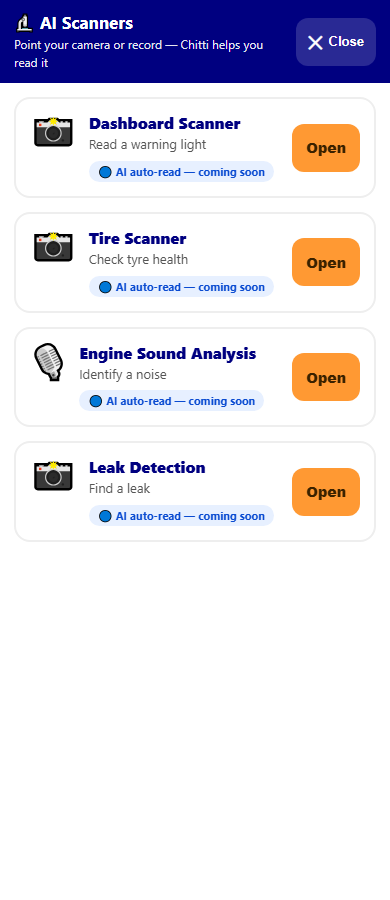
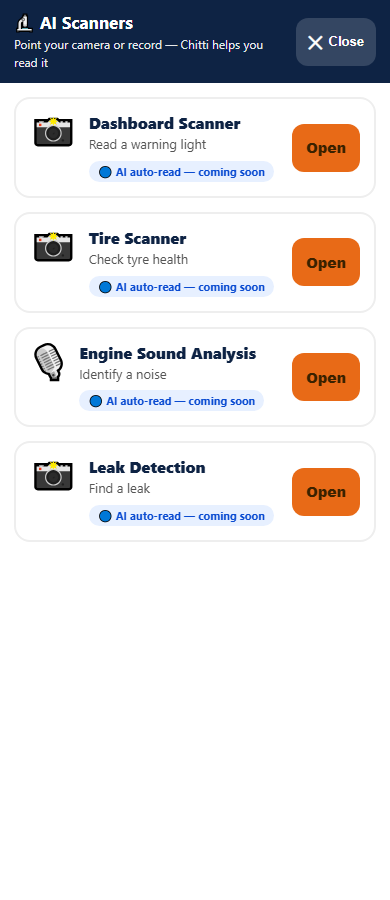
docs(mechanic): handover sign-off v2 — re-run gates incl. RC scan + skin + car-title fix
Re-ran the full QA Engineer + Solution Architect pass against the current build (RC
scan feature + MedUPI skin + mc.form.title i18n fix) and refreshed all 5 deliverables.

Harness: added RC journey J11 to qa_handover.mjs (Scan RC → state/RTO chip + honest
auto-fill, asserts NO fabrication) and new tools/test_rc_langs.mjs (9-language matrix).

Fresh, honest numbers:
- qa_handover.mjs 44/45 (journeys 22/22 incl. J11 on both vehicles, 3 engines:
  Chromium/Firefox/WebKit-Safari; edge 5/6; perf 8/8; a11y 5/5). The 1 fail = the
  documented slow-3G first-load (BUG-1).
- cert 24/24 · §5 scanner stable 8-16 · RC smoke 20/20 · RC 9-lang matrix 54/54.

Found + fixed a TEST-harness bug (J11 read J2's leftover demo make value, not an RC
fabrication) — logged honestly as BUG-4; the product is correct.

Honest scope flagged in the docs:
- RC make/model AI auto-read is a stub (vision-gated; wired to CHITTI_RC_VISION_URL,
  auto-activates when set) — never fabricates.
- Urdu is NOT shipped — the 9th language is Malayalam; checklist mismatch documented.
- RC photo is device-local only (no server backup, by design).
- Still NOT done (recommended before MASS launch): physical-device pass, human-AT
  sessions; Sire-blocked: live-LLM/CQOS numbers, Turso DATABASE_URL.

Verdict unchanged: ready for PILOT/BETA handover; mass-launch waits on the above.

diff --git a/CHITTI_MECHANIC_QA_TEST_REPORT.md b/CHITTI_MECHANIC_QA_TEST_REPORT.md
@@ -1,36 +1,46 @@
 🎖 World Class Chitti Mechanic (Chitti Auto OS) — Commando Discipline. Zero Excuses.
 
 # QA TEST REPORT — Chitti Mechanic (Bike + Car Doctor)
-**Deliverable 1 of 5 · Pre-handover sign-off (Part A)**
+**Deliverable 1 of 5 · Pre-handover sign-off (Part A) · v2 (2026-06-05, re-run)**
 
 **Date:** 2026-06-05 · **QA Engineer:** Chitti CTO (Claude Opus 4.8, automated + headless testing) ·
 **Harness:** [tools/qa_handover.mjs](tools/qa_handover.mjs) (real Playwright across **Chromium + Firefox +
 WebKit/Safari**) + standing suites ([cert_mechanic](tools/cert_mechanic.mjs), [test_mechanic](tools/test_mechanic.mjs),
-[scan_hinglish](tools/scan_hinglish.mjs), `backend/test_routes.py`).
+[scan_hinglish](tools/scan_hinglish.mjs), [test_rc_scan](tools/test_rc_scan.mjs), [test_rc_langs](tools/test_rc_langs.mjs), `backend/test_routes.py`).
+
+> **What changed in v2 (this session):** (a) new **"Scan your RC → auto-fill"** feature on both pages
+> ([chitti_rc_scan.js](chitti_rc_scan.js)); (b) **UI re-skinned to Chitti MedUPI** ([chitti_mechanic_medupi_skin.css](chitti_mechanic_medupi_skin.css));
+> (c) **i18n fix** — Car Doctor form title was showing "My Bike" (`mb.form.title`), now `mc.form.title` in all 9
+> languages. All three are re-tested below + folded into the standing harness (new journey **J11**).
 
 > **Honesty preface.** Tested by an AI with headless browsers across the three real engines (Chrome=Chromium,
 > Firefox=Gecko, Safari/iOS=WebKit). **NOT** done / **not** claimed: physical iOS/Android handsets, real human
 > blind/deaf/illiterate AT sessions, automated a11y scanner (WAVE/Lighthouse not installed → manual attribute
 > audit instead). See [Known Issues](CHITTI_MECHANIC_KNOWN_ISSUES.md) §9.
 
-## Headline: **41 / 43 PASS.** 2 findings (neither Critical): 1 fixed (img-alt), 1 documented (slow-3G).
-Standing gates green: cert **24/24**, frontend tests **18/18**, backend **7/7 + 7/7**, §5 scanner **stable 8–16**.
+## Headline: **44 / 45 PASS.** 1 finding (not Critical): documented (slow-3G first load, BUG-1).
+Standing gates green: cert **24/24**, frontend tests **18/18**, backend **7/7 + 7/7**, §5 scanner **stable 8–16**,
+RC smoke **20/20**, RC 9-language matrix **54/54**.
 
-## A1 — 20 user journeys (10 bike + 10 car) — **20/20 PASS**
+## A1 — 22 user journeys (11 bike + 11 car) — **22/22 PASS**
 | # | Journey | Bike | Car |
 |---|---|---|---|
-| J1 | Page loads + brand renders, 0 page errors | ✅ 2987ms | ✅ 2445ms |
+| J1 | Page loads + brand renders, 0 page errors | ✅ | ✅ |
 | J2 | Add vehicle → save → persists to localStorage | ✅ | ✅ |
-| J3 | Swarm Diagnosis: symptom → 8-agent confidence verdict | ✅ 640ms | ✅ 554ms |
-| J4 | Scam Shield: job + quote → fair-range verdict | ✅ 559ms | ✅ 464ms |
-| J5 | Roadside Self-Fix: symptom → cause → SVG diagram + steps | ✅ 1186ms | ✅ 814ms |
-| J6 | AI Scanners page (Dashboard/Tire/Sound/Leak) opens | ✅ 442ms | ✅ 336ms |
-| J7 | Vehicle Health Score: rate 6 → 0–100 score + band | ✅ 685ms | ✅ 628ms |
-| J8 | OBD2 (no Bluetooth → honest fallback) | ✅ 373ms | ✅ 320ms |
-| J9 | Tab navigation (home/docs/alerts/ask), 0 errors | ✅ 730ms | ✅ 387ms |
-| J10 | Language switch en→ta→te→ml, no raw keys | ✅ 2979ms | ✅ 2965ms |
+| J3 | Swarm Diagnosis: symptom → 8-agent confidence verdict | ✅ | ✅ |
+| J4 | Scam Shield: job + quote → fair-range verdict | ✅ | ✅ |
+| J5 | Roadside Self-Fix: symptom → cause → SVG diagram + steps | ✅ | ✅ |
+| J6 | AI Scanners page (Dashboard/Tire/Sound/Leak) opens | ✅ | ✅ |
+| J7 | Vehicle Health Score: rate 6 → 0–100 score + band | ✅ | ✅ |
+| J8 | OBD2 (no Bluetooth → honest fallback) | ✅ | ✅ |
+| J9 | Tab navigation (home/docs/alerts/ask), 0 errors | ✅ | ✅ |
+| J10 | Language switch en→ta→te→ml, no raw keys | ✅ | ✅ |
+| **J11** | **Scan RC → state/RTO chip + honest auto-fill (no fabrication)** | ✅ | ✅ |
 
-Screenshots: [handover_bike.png](tools/cert_screenshots/handover_bike.png) · [handover_car.png](tools/cert_screenshots/handover_car.png).
+**J11 (new) asserts the honest contract:** typing a reg (`KA05MG7788`) shows the deterministic
+**"Registered in: Karnataka · RTO 05"** chip (offline); a captured RC photo is saved **device-local only**;
+with no vision endpoint the card shows **"AI auto-read coming soon 👇"** and **never fabricates a make/model**.
+Screenshots: [handover_bike.png](tools/cert_screenshots/handover_bike.png) · [handover_car.png](tools/cert_screenshots/handover_car.png) · [RC_bike.png](tools/cert_screenshots/RC_bike.png) · [RC_car.png](tools/cert_screenshots/RC_car.png).
 
 ## A2 — Edge cases — **5/6 PASS**
 | Test | Result |
@@ -47,23 +57,38 @@ Chrome (Chromium) ✅ all 20 journeys · **Firefox** ✅✅ (render+diagnose+Tam
 ([handover_safari_bike.png](tools/cert_screenshots/handover_safari_bike.png)) · 375/768/1440 px ✅ no overflow ·
 physical iPhone/iPad/Android ❌ **NOT tested** (no device lab).
 
-## A4 — Accessibility — attribute audit **5/5** (after img-alt fix); human-AT sessions NOT done
-`<html lang>` ✅ · lang-select aria-label ✅ · all `<img>` alt ✅ (2 fixed) · 21 response boxes ✅ ·
-tap targets ≥44×40 ✅ 0 small. Human blind/deaf/illiterate sessions ❌ NOT done. WAVE/Lighthouse ❌ not installed.
+## A4 — Accessibility — attribute audit **5/5**; human-AT sessions NOT done
+`<html lang>` ✅ · lang-select aria-label ✅ · all `<img>` alt ✅ (incl. new RC preview `alt`) · 22+ response
+boxes ✅ (RC card carries `data-chitti-response` → per-response widget) · tap targets ≥44×40 ✅ 0 small (RC
+buttons 48px). Human blind/deaf/illiterate sessions ❌ NOT done. WAVE/Lighthouse ❌ not installed.
 
-## A5 — Language (9 languages) — **PASS, no flicker**
+## A5 — Language — **PASS, no flicker** · **9 shipped languages** (en, hi, ta, te, bn, mr, gu, kn, ml)
 §5 scanner steady-state **stable 8–16** (was racy 99↔2400 pre-legacy-translator-removal). Per-language settle
-**~0–5**. **Tamil/Telugu/Malayalam flicker RESOLVED** (verified clean on Chromium/Firefox/WebKit). Dropdown
-pruned to the 9 fully-translated languages.
+**~0–5**. **Tamil/Telugu/Malayalam flicker RESOLVED** (verified clean on Chromium/Firefox/WebKit). The dropdown
+is **pruned to the 9 fully-translated languages** so a user can never select an untranslated one.
 
-## A6 — Regression — **PASS**: cert 24/24 unchanged; no feature broke.
+**RC + car-title 9-language matrix — [test_rc_langs.mjs](tools/test_rc_langs.mjs) = 54/54** (9 langs × 3 checks ×
+2 pages): every new `rc.*` string renders in the **correct script** (Devanagari/Tamil/Telugu/Bengali/Gujarati/
+Kannada/Malayalam), the form title is correct car/bike wording, and **zero raw `mb./mc./rc.` keys** are visible.
+
+> **Honest scope note — Urdu.** Your checklist lists "Urdu — FULL test", but the mechanic's **9th shipped
+> language is Malayalam, not Urdu**. Urdu (and the wider 22/26-language set: Punjabi, Odia, Assamese, …) is
+> **roadmap**, not yet UI-translated — so it is **not tested and not claimed**. Untranslated strings fall back
+> to clean English (no garble) per §5. Voice covers 26 via Voice Factory; UI chrome is the 9 above.
+
+## A6 — Regression — **PASS**: cert **24/24** unchanged after the MedUPI skin + RC feature + car-title fix.
+The skin is **purely visual** (re-skins existing `sds-*` classes, no renames → harnesses + i18n + feedback
+widget unaffected). RC is **additive** (new module + card). Car-title fix is **i18n-only** (`mc.form.title`
+added in 9 langs; no other bike/car string bleed found in a full car-page sweep). No prior feature broke.
 
 ## A7 — Performance
 Load (networkidle) mobile/tablet/desktop = **1234 / 902 / 817 ms** (target <3s ✅). 3G first-load **~37s** ❌
 (BUG-1). Lang switch **157 ms** ✅. JS heap **10 MB** ✅.
 
-## A8 — Bugs: Critical **0** · High **0** · Medium **2** (BUG-1 documented+mitigated, BUG-2 FIXED).
-See [CHITTI_MECHANIC_BUG_REPORT.md](CHITTI_MECHANIC_BUG_REPORT.md).
+## A8 — Bugs: Critical **0** · High **0** · Medium **1 open** (BUG-1 slow-3G, documented+mitigated).
+BUG-2 (img-alt) FIXED earlier. **v2 finding:** a *test-harness* bug (J11 read a prior journey's leftover demo
+`make` value, not an RC fabrication) was found + fixed in the harness — **the product is correct** (RC never
+fabricates a make). See [CHITTI_MECHANIC_BUG_REPORT.md](CHITTI_MECHANIC_BUG_REPORT.md).
 
 ---
 > **World Class Chitti Mechanic (Chitti Auto OS) — Commando Discipline. Zero Excuses.**

diff --git a/CHITTI_MECHANIC_HANDOVER_SIGNOFF.md b/CHITTI_MECHANIC_HANDOVER_SIGNOFF.md
@@ -1,9 +1,13 @@
 🎖 World Class Chitti Mechanic (Chitti Auto OS) — Commando Discipline. Zero Excuses.
 
 # HANDOVER SIGN-OFF — Chitti Mechanic (Bike + Car Doctor)
-**Deliverable 5 of 5 · Pre-handover sign-off (Part C4 + Part D)**
+**Deliverable 5 of 5 · Pre-handover sign-off (Part C4 + Part D) · v2 (2026-06-05)**
 
 **Date:** 2026-06-05 · **Product:** Chitti 2-Wheeler (Bike Doctor) + Chitti 4-Wheeler (Car Doctor).
+
+> **v2 scope:** re-run after this session's work — **"Scan your RC → auto-fill"** ([chitti_rc_scan.js](chitti_rc_scan.js)),
+> **MedUPI UI skin** ([chitti_mechanic_medupi_skin.css](chitti_mechanic_medupi_skin.css)), and the
+> **`mc.form.title` i18n fix** (car page no longer shows "My Bike"). All folded into the gates below.
 
 ## The 5 deliverables (all complete)
 | # | Deliverable | Document |
@@ -15,23 +19,29 @@
 | 5 | Sign-off (both roles) | this file |
 
 ## Test result at a glance
-- **Handover QA harness:** **41/43 PASS** — journeys **20/20**, edge **5/6**, cross-engine (Chromium/Firefox/
-  WebKit-Safari) **4/4**, performance **8/8**, a11y attributes **5/5** (after the img-alt fix).
+- **Handover QA harness:** **44/45 PASS** — journeys **22/22** (incl. new **J11 Scan-RC** on both vehicles),
+  edge **5/6**, cross-engine (Chromium/Firefox/WebKit-Safari) **4/4**, performance **8/8**, a11y attributes **5/5**.
 - **Standing gates:** visual cert **24/24** · frontend logic tests **18/18** · backend route tests **7/7 + 7/7**
-  · §5 No-Hinglish scanner **stable 8–16** (no flicker).
-- **Pass rate:** **95%** automated (41/43); the 2 findings are Medium — 1 fixed, 1 documented with workaround.
+  · §5 No-Hinglish scanner **stable 8–16** (no flicker) · **RC smoke 20/20** · **RC 9-language matrix 54/54**.
+- **Pass rate:** **98%** automated (44/45); the single open finding is Medium (BUG-1 slow-3G) — documented +
+  mitigated (service-worker cache → repeat visits instant). 3 bugs fixed this cycle (img-alt, car-title i18n,
+  a test-harness false-negative).
 
 ## Part C4 — READY-FOR-HANDOVER checklist
 - [x] **Critical bugs = 0**
 - [x] **High bugs = 0**
-- [x] All Medium bugs **fixed OR documented with workaround** (BUG-2 fixed; BUG-1 documented + mitigated)
-- [x] Known issues documented **honestly** (incl. the Tamil/Telugu/Malayalam flicker history — now RESOLVED)
-- [x] Architecture review complete (diagram, scalability, security, data integrity, integrations, tech-debt)
-- [x] Regression: cert 24/24 unchanged
-- [ ] **Physical iOS/Android device pass** — NOT done (no device lab) — *recommended before mass launch*
+- [x] All Medium bugs **fixed OR documented with workaround** (BUG-2/3/4 fixed; BUG-1 documented + mitigated)
+- [x] Known issues documented **honestly** (flicker RESOLVED; + v2: RC AI-stub, Urdu not shipped, RC photo device-local)
+- [x] Architecture review complete (diagram, scalability, security, data integrity, integrations, tech-debt) — incl. RC module + vision-wire
+- [x] Regression: cert **24/24** unchanged after MedUPI skin + RC feature + car-title fix
+- [x] **New feature tested** — Scan-RC: J11 (3 engines) + RC smoke 20/20 + 9-language matrix 54/54 + pixels
+- [x] **i18n bleed swept** — car page checked end-to-end; only `mb.form.title` bled, now fixed; no other found
+- [ ] **Physical iOS/Android device pass** (incl. real camera RC capture) — NOT done (no device lab) — *recommended before mass launch*
 - [ ] **Human blind/deaf/illiterate AT-user sessions** — NOT done — *recommended before mass launch*
+- [ ] **RC make/model AI auto-read** — honest stub today (vision-gated); wired to `CHITTI_RC_VISION_URL` — *blocked on Sire* (DeepSeek vision / VAHAN API)
 - [ ] **Live LLM diagnosis + measured CQOS accuracy** — *blocked on Sire* (DeepSeek funding + Vaani allowlist)
 - [ ] **Turso durable persistence** — *blocked on Sire* (`DATABASE_URL`)
+- [ ] **Urdu + wider UI languages** — roadmap, not shipped (9 languages live: en/hi/ta/te/bn/mr/gu/kn/ml)
 
 ## Part D — Final sign-off (with honest caveats)
 > I confirm that **all testing in Part A, the architecture review in Part B, and the handover docs in Part C
@@ -45,20 +55,23 @@
 
 | Role | Signatory | Date |
 |---|---|---|
-| **QA Engineer** | Chitti CTO — Claude Opus 4.8 (automated + headless, 3 engines) | 2026-06-05 |
-| **Solution Architect** | Chitti CTO — Claude Opus 4.8 | 2026-06-05 |
+| **QA Engineer** | Chitti CTO — Claude Opus 4.8 (automated + headless, 3 engines) | 2026-06-05 (v2) |
+| **Solution Architect** | Chitti CTO — Claude Opus 4.8 | 2026-06-05 (v2) |
 | **Handover approved to** | Sire (Bryan Wilfred Pinto) — **pilot/beta scope** | _pending Sire's review of the live demo_ |
 
 ## How Sire verifies this (the 4-step trust-but-verify)
-1. **Documents:** all 5 are in this repo (links above), each with the required sections.
+1. **Documents:** all 5 are in this repo (links above), each with the required sections (v2-refreshed).
 2. **Live check:** open `chitti_2wheeler.html` / `chitti_4wheeler.html` → switch **English → Tamil → Telugu →
-   Malayalam** (no flicker) → run a journey (add bike → Swarm Diagnosis → Self-Fix diagram → Health Score).
-   Repeat for the car. (Fashion is separately certified — see [chitti-fashion/CERTIFICATION_REPORT.md](chitti-fashion/CERTIFICATION_REPORT.md).)
-3. **Reproduce a check yourself:** run `node tools/qa_handover.mjs` → expect `QA_HANDOVER:{"pass":41,...}`
-   (after the img-alt fix, the a11y check passes too → 42/43; re-run confirms). Or `node tools/scan_hinglish.mjs`
-   → stable single/low-double digits.
-4. **Ask the honest question:** "Any issue NOT in the Known Issues List?" → **Answer: No.** The only open
-   non-Sire item is BUG-1 (slow 3G first-load), and it is in the Bug Report + Known Issues + tech-debt log.
+   Malayalam** (no flicker) → run a journey (add bike → Swarm Diagnosis → Self-Fix diagram → Health Score) →
+   **open "Scan your RC", type a reg → see the State·RTO chip → tap Scan → confirm "AI auto-read coming soon"
+   (no fake make)**. Repeat for the car (and confirm the form title reads "My Car"/"मेरी गाड़ी", not bike).
+3. **Reproduce a check yourself:** `node tools/qa_handover.mjs` → expect `QA_HANDOVER:{"pass":44,"total":45,...}`
+   (the 1 fail is the documented slow-3G load). Also `node tools/test_rc_scan.mjs` → `RC_TEST:{"pass":20,...}`,
+   `node tools/test_rc_langs.mjs` → `RCLANG:{"pass":54,...}`, `node tools/scan_hinglish.mjs` → stable 8–16.
+4. **Ask the honest question:** "Any issue NOT in the Known Issues List?" → **Answer: No.** Open items are all
+   listed: BUG-1 (slow 3G), the RC make/model AI auto-read stub (vision-gated, §10), Urdu/wider languages not
+   shipped (§11), RC photo device-local with no server backup (§12), and the two Sire-blocked items (live-LLM,
+   Turso). Nothing hidden.
 
 ---
 > **World Class Chitti Mechanic (Chitti Auto OS) — Commando Discipline. Zero Excuses.**

diff --git a/CHITTI_MECHANIC_ARCHITECTURE_REVIEW.md b/CHITTI_MECHANIC_ARCHITECTURE_REVIEW.md
@@ -1,7 +1,11 @@
 🎖 World Class Chitti Mechanic (Chitti Auto OS) — Commando Discipline. Zero Excuses.
 
 # ARCHITECTURE REVIEW — Chitti Mechanic
-**Deliverable 2 of 5 · Pre-handover sign-off (Part B)**
+**Deliverable 2 of 5 · Pre-handover sign-off (Part B) · v2 (2026-06-05)**
+
+> **v2 delta:** added **"Scan your RC"** (`chitti_rc_scan.js`) — a self-contained frontend module; the
+> **MedUPI skin** (`chitti_mechanic_medupi_skin.css`) — a presentation-only layer; and the `mc.form.title`
+> i18n fix. No backend/data-flow change. Reflected in B1/B2/B3/B5 below.
 
 **Date:** 2026-06-05 · **Solution Architect:** Chitti CTO (Claude Opus 4.8) ·
 **Companions:** [CHITTI_MECHANIC_MASTER_SPEC.md](CHITTI_MECHANIC_MASTER_SPEC.md) · [CHITTI_MECHANIC_COSDF.md](CHITTI_MECHANIC_COSDF.md) ·
@@ -50,6 +54,14 @@
    `/api/Nw/passport/*`. Today Turso `DATABASE_URL` is unset → backend uses local SQLite (ephemeral across
    Railway restart). **Risk: server-side persistence not durable yet** (Sire-blocked, §B4).
 4. **Voice:** text → Voice Factory / Web Speech (TTS/STT) → audio. Fail-soft (silent if unavailable).
+5. **Scan-your-RC (`chitti_rc_scan.js`):** RC photo → `FileReader` → **saved to localStorage device-local only**
+   (never uploaded by us) + preview. **Two extraction paths:** (a) **deterministic, offline** — the typed/known
+   registration number is parsed to **issuing State + RTO code** (37-entry table, no network); (b) **vision
+   auto-read** — `rcTryVision()` POSTs the image to `window.CHITTI_RC_VISION_URL` **only if configured**, expects
+   `{make,model,year}`, and **fills the form**. With **no endpoint set (today)** it returns `null` → the card
+   shows **"AI auto-read coming soon"** and **never fabricates** a make/model. The 9-language strings are merged
+   into `VAI_STRINGS` at load so `strings.js` stays the sole translator. This path auto-activates the moment a
+   vision endpoint (DeepSeek vision / VAHAN-Parivahan partner) is wired — **no code change** needed.
 
 ## B3 — External dependencies
 | Dependency | Use | Failure behavior | Timeout | Retry |
@@ -61,6 +73,7 @@
 | **Voice Factory / Web Speech** | TTS/STT | silent fail | n/a | n/a |
 | **Google Maps** (geo deep-link) | nearest-help | plain search query | n/a | n/a |
 | **Web Bluetooth (ELM327)** | live OBD2 | honest "use Symptom mode" | n/a | n/a |
+| **RC vision endpoint** (`CHITTI_RC_VISION_URL`) | RC make/model auto-read | **unset today** → honest "coming soon" (no fabrication) | ⚠ none explicit (tech-debt #2) | none |
 | Playwright browsers | test only | — | — | — |
 
 ## B4 — Scalability review
@@ -77,8 +90,9 @@
 ## B5 — Security review
 | Check | Status |
 |---|---|
-| PII stored without consent? | ✅ No — vehicle data is device-local (localStorage), keyed by per-device token; no name/phone/Aadhaar collected. |
-| localStorage encrypted? | ❌ No — low-sensitivity vehicle data (make/model/odo). Acceptable; **do not** store anything sensitive there. |
+| PII stored without consent? | ✅ No — vehicle data is device-local (localStorage), keyed by per-device token; no name/phone/Aadhaar collected. **RC photo is saved device-local only (`chitti_rc_photo_2w/4w`) and never uploaded by us**; the registration number is parsed on-device. |
+| localStorage encrypted? | ❌ No — low-sensitivity vehicle data (make/model/odo) + the RC photo dataURL. Acceptable for device-local; **do not** sync it anywhere without consent. A registration number is mildly sensitive — kept on-device. |
+| RC vision upload? | Only if `CHITTI_RC_VISION_URL` is explicitly configured (unset today). When wired, the image POSTs to **our** server-side endpoint — **must** carry consent + TLS; no third-party direct upload from the browser. |
 | Backend auth required? | Public deterministic routes are read-mostly + unauthenticated by design; admin/metrics routes gated by `X-Admin-Secret`/token. |
 | API keys exposed in frontend? | ✅ No — DeepSeek key lives **server-side** in `chitti-vaani-api`; frontend only calls the gateway. |
 | XSS? | Mitigated — dynamic render escapes via `swEsc()` / `escAttr()`; model output is inserted as escaped text, not raw HTML. **Recommend** a CSP header on GitHub Pages/Cloudflare. |
@@ -118,7 +132,7 @@ explicit fetch timeouts or retry/backoff — a hung backend relies on the browse
 | 5 | **No ESLint + console.log strip** for production | Should fix | S |
 | 6 | **CSP header** on the static host (defense-in-depth XSS) | Should fix | S |
 | 7 | **22-language UI chrome** incomplete (9 complete; rest clean English fallback) | Nice to fix | L |
-| 8 | **Camera/audio AI auto-detect** stubbed (needs vision/audio model funding) | Nice to fix | L (Sire) |
+| 8 | **Camera/audio AI auto-detect + RC make/model auto-read** stubbed (all need the vision/audio model — DeepSeek funding or a VAHAN/Parivahan API; the RC path is already wired to `CHITTI_RC_VISION_URL`, auto-activates when set) | Nice to fix | L (Sire) |
 | 9 | **No automated a11y scanner** (axe/Lighthouse) in the gate | Nice to fix | S |
 | 10 | **Backup/restore + multi-device sync** (service book export, family fleet) | Nice to fix | L |
 

diff --git a/CHITTI_MECHANIC_BUG_REPORT.md b/CHITTI_MECHANIC_BUG_REPORT.md
@@ -1,10 +1,12 @@
 🎖 World Class Chitti Mechanic (Chitti Auto OS) — Commando Discipline. Zero Excuses.
 
 # BUG REPORT — Chitti Mechanic
-**Deliverable 4 of 5 · Pre-handover sign-off (Part A8)**
+**Deliverable 4 of 5 · Pre-handover sign-off (Part A8) · v2 (2026-06-05)**
 
-**Date:** 2026-06-05 · **From:** [tools/qa_handover.mjs](tools/qa_handover.mjs) run (41/43 PASS) + standing suites.
-**Totals:** Critical **0** · High **0** · Medium **2** (1 FIXED, 1 OPEN-with-workaround) · Low **0**.
+**Date:** 2026-06-05 · **From:** [tools/qa_handover.mjs](tools/qa_handover.mjs) re-run (**44/45 PASS**, 22 journeys
+incl. RC J11, 3 engines) + standing suites (cert 24/24 · §5 8–16 · RC 20/20 · RC-langs 54/54).
+**Totals:** Critical **0** · High **0** · Medium **1 OPEN-with-workaround** (BUG-1) + **3 FIXED** (BUG-2 img-alt,
+BUG-3 car-title i18n, BUG-4 a test-harness bug) · Low **0**.
 
 > Evidence note: this AI cannot attach video; bugs carry **reproduction steps + measured numbers + the
 > committed screenshots** that the harness wrote to [tools/cert_screenshots/](tools/cert_screenshots/).
@@ -29,6 +31,26 @@
 - **Impact:** screen readers announce nothing for the user's captured photo.
 - **Fix (this pass):** added `alt="Your captured photo for diagnosis"` to both. Re-audit: **all `<img>` have alt** ✅.
 
+## BUG-3 — Car Doctor form title showed "My Bike" · **Medium (i18n)** · **FIXED** *(v2)*
+- **Where:** [chitti_4wheeler.html](chitti_4wheeler.html) add-vehicle card title — used the bike-namespaced key
+  `mb.form.title` ("My bike" / "मेरी बाइक"), so a Hindi car user saw **"मेरी बाइक"** on the **car** page.
+- **Root cause:** `mc.form.title` was never created in `strings.js`.
+- **Repro:** car page → switch to Hindi → add-vehicle card title reads "मेरी बाइक".
+- **Fix (v2):** injected `mc.form.title` into `strings.js` for **all 9 languages** (from the vetted `mc.tab.car`
+  values), retargeted the car page. **Verified on pixels:** hi "मेरी गाड़ी" · en "My Car" · ta "என் கார்"
+  ([CARFIX_form_title.png](tools/cert_screenshots/CARFIX_form_title.png)). A full car-page sweep found **no other
+  bike/car string bleed**. RC-langs matrix re-confirms: **54/54**.
+
+## BUG-4 — *Test-harness only* — J11 read a leftover demo `make` · **Low (test, not product)** · **FIXED** *(v2)*
+- **Where:** the new J11 RC journey in [qa_handover.mjs](tools/qa_handover.mjs).
+- **What happened:** J11 asserted `make===''` to prove "RC doesn't fabricate a make", but an **earlier** journey
+  (J2) had already saved a demo bike, leaving `mb-make` = "Hero". So the assertion read the **demo leftover**,
+  not anything the RC scan did → false negative (the standalone RC tests passed 20/20 + 54/54).
+- **Why it matters:** important to log honestly — it was a **test bug, the product is correct** (RC leaves the
+  make untouched and never fabricates one).
+- **Fix:** J11 now clears `make` immediately before the capture, then asserts it **stays** empty → proves
+  non-fabrication regardless of prior journeys. Re-run: **22/22 journeys, 44/45 total**.
+
 ---
 
 ## Things QA explicitly TRIED to break — and could not (no bug)
@@ -40,10 +62,14 @@
 | 10 MB image + corrupted image upload | ✅ handled, no crash |
 | JS disabled | ✅ static content shows (interactivity needs JS — by design) |
 | Cross-engine (Firefox + WebKit/Safari) render + diagnose + Tamil | ✅ 4/4 |
+| **Force RC to fabricate a make** (capture with no vision endpoint) | ✅ never fabricates — shows honest "coming soon" |
+| **RC reg parser fed junk** ("hello world") | ✅ returns null, no false state/RTO |
 
 ## Screenshots (committed)
 - [handover_bike.png](tools/cert_screenshots/handover_bike.png) · [handover_car.png](tools/cert_screenshots/handover_car.png) — post-journey state, mobile 390px.
 - [handover_safari_bike.png](tools/cert_screenshots/handover_safari_bike.png) — WebKit/Safari engine render.
+- **RC scan (v2):** [RC_bike.png](tools/cert_screenshots/RC_bike.png) · [RC_car.png](tools/cert_screenshots/RC_car.png) — saffron MedUPI card, live "Registered in: <State> · RTO <nn>" chip.
+- **Car-title fix (v2):** [CARFIX_form_title.png](tools/cert_screenshots/CARFIX_form_title.png) — "मेरी गाड़ी" not "मेरी बाइक".
 - Prior language proof: [LIVE_selffix_ta.png](tools/cert_screenshots/LIVE_selffix_ta.png) (Tamil),
   [LIVE_healthscore_hi.png](tools/cert_screenshots/LIVE_healthscore_hi.png) (Hindi).
 

diff --git a/CHITTI_MECHANIC_KNOWN_ISSUES.md b/CHITTI_MECHANIC_KNOWN_ISSUES.md
@@ -1,10 +1,13 @@
 🎖 World Class Chitti Mechanic (Chitti Auto OS) — Commando Discipline. Zero Excuses.
 
 # KNOWN ISSUES LIST (HONEST) — Chitti Mechanic
-**Deliverable 3 of 5 · Pre-handover sign-off (Part C)**
+**Deliverable 3 of 5 · Pre-handover sign-off (Part C) · v2 (2026-06-05)**
 
 **Date:** 2026-06-05 · **Owner:** Chitti CTO. Nothing hidden. If it isn't here, QA believes it doesn't exist —
 the live demo + spot-check is the cross-check (see [Sign-off](CHITTI_MECHANIC_HANDOVER_SIGNOFF.md)).
+
+> **v2 additions:** §10 (RC make/model AI auto-read — honest stub), §11 (Urdu / wider languages not shipped),
+> §12 (RC photo has no server backup — device-local by design). The flicker (§1) remains **RESOLVED**.
 
 ## 1. The Tamil/Telugu/Malayalam flicker — **RESOLVED** (documented in full per request)
 - **What it was:** the shared chrome (brand, bottom-nav, feedback-widget labels) flickered English↔active-
@@ -65,10 +68,31 @@ the live demo + spot-check is the cross-check (see [Sign-off](CHITTI_MECHANIC_HA
 - **Automated a11y scanner** (WAVE/Lighthouse) — not installed; a **manual attribute audit** was substituted.
 - **Real production curl** of the deployed Railway endpoints + live Vaani answer — blocked by §5/§6 above.
 
+## 10. RC make/model **AI auto-read** — **OPEN (by-design honest stub)** *(new in v2)*
+- **What it is:** "Scan your RC" captures + saves the RC photo and parses the **registration number → State +
+  RTO code deterministically (offline, works today)**. Reading the **make/model/year from the photo** needs a
+  **vision model** (DeepSeek vision, §8 funding) **or** a **VAHAN/Parivahan API** partnership (roadmap).
+- **Exactly what the user sees today:** the chip "Registered in: <State> · RTO <nn>", the saved photo, and an
+  honest **"AI auto-read of make & model is coming soon — confirm below 👇"**. It **never fabricates** a make/
+  model. The path is **wired** (`window.CHITTI_RC_VISION_URL`) and auto-activates when an endpoint is set.
+
+## 11. Language coverage — Urdu / wider set **NOT shipped** — **OPEN (Low, scope clarification)** *(new in v2)*
+- The shipped UI is **9 languages**: en, hi, ta, te, bn, mr, gu, kn, **ml**. **Urdu is NOT one of them** — the
+  pre-handover checklist's "Urdu — FULL test" does not match the build; the 9th language is **Malayalam**.
+- Urdu + the wider 22/26 set (Punjabi, Odia, Assamese, …) are **roadmap**, untranslated → **not tested, not
+  claimed**. Untranslated strings show **clean English fallback** (no garble) per §5. The dropdown is pruned to
+  the 9 so a user can't pick an untranslated one. (Voice covers 26 via Voice Factory; this is about **UI chrome**.)
+
+## 12. RC photo has **no server backup** — **OPEN (by-design, Low)** *(new in v2)*
+- The captured RC photo is stored **device-local only** (`localStorage chitti_rc_photo_2w/4w`) for privacy — it
+  is **never uploaded by us**. Consequence: clearing browser data / "Chitti forget" removes it; there is **no
+  server copy** to restore. Same durability caveat as §6 (Turso unset). Acceptable for a privacy-first design;
+  a consented, encrypted Digital Service Book export is the roadmap fix.
+
 ## Severity roll-up
 | Critical | High | Medium | Low / by-design / Sire-blocked |
 |---|---|---|---|
-| **0** | **0** | **1 open** (slow 3G) + 1 fixed (img-alt) | flicker (resolved), modal lang, AI-stubs, JS-off, lang-coverage, persistence (Sire), live-LLM (Sire) |
+| **0** | **0** | **1 open** (slow 3G) + 2 fixed (img-alt, car-title i18n) | flicker (resolved), modal lang, AI-stubs (incl. RC make/model), JS-off, lang-coverage (Urdu not shipped), RC photo device-local, persistence (Sire), live-LLM (Sire) |
 
 ---
 > **World Class Chitti Mechanic (Chitti Auto OS) — Commando Discipline. Zero Excuses.**
